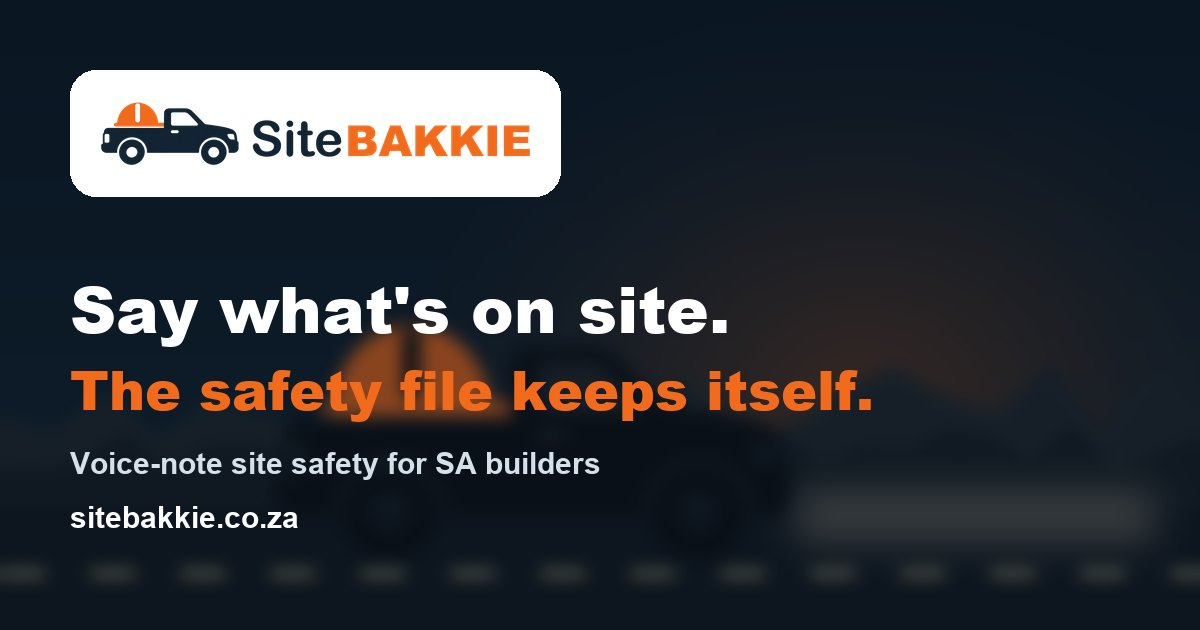
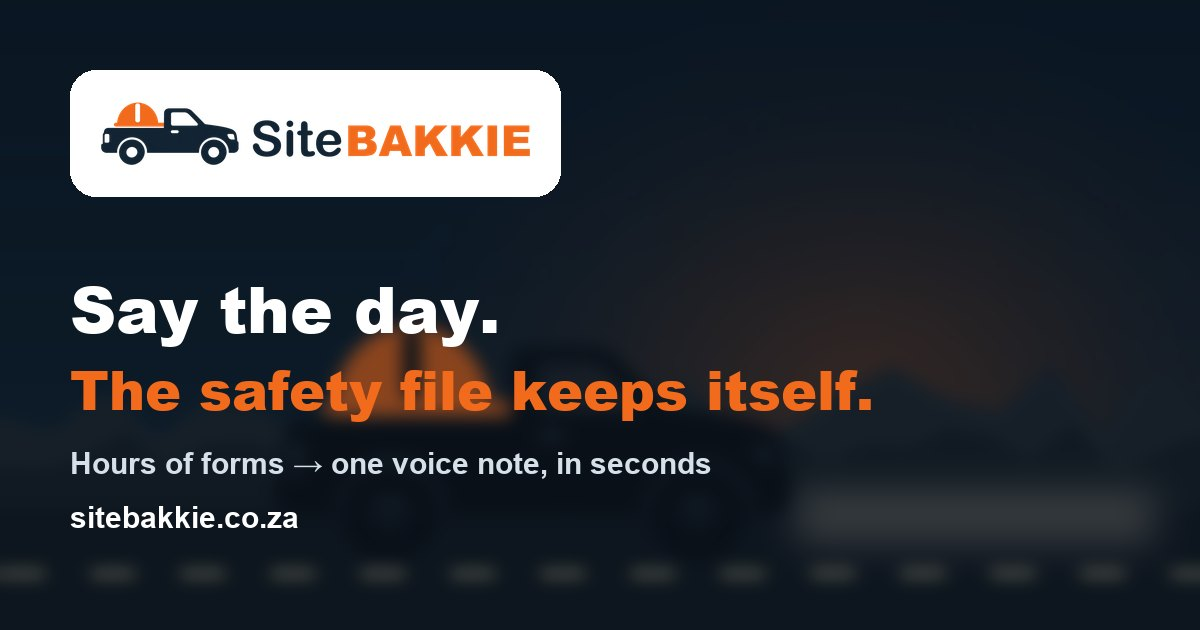
Landing: "Say the day." hero, hours-to-seconds highlight, no lone words in headings

Changed region(s): [[0.185, 0.4524, 0.6167, 0.573], [0.0617, 0.6937, 0.6167, 0.754]]

diff --git a/web/index.html b/web/index.html
@@ -7,7 +7,7 @@
 <meta name="description" content="SiteBakkie turns a voice note into the daily task sheet, toolbox talk, inspection or incident report, signed on the phone. A green-or-red site board shows what is missing. For South African builders and site managers.">
 <meta name="theme-color" content="#ffffff">
 <meta property="og:title" content="SiteBakkie · Site safety from the bakkie">
-<meta property="og:description" content="Say what's on site. The safety file keeps itself.">
+<meta property="og:description" content="Say the day. The safety file keeps itself.">
 <meta property="og:image" content="https://www.sitebakkie.co.za/img/og.jpg">
 <meta property="og:image:width" content="1200"><meta property="og:image:height" content="630">
 <meta property="og:url" content="https://www.sitebakkie.co.za/"><meta property="og:type" content="website">
@@ -41,7 +41,7 @@
     <div class="wrap herogrid">
       <div>
         <span class="pill">For builders, civil contractors &amp; site managers in South Africa</span>
-        <h1>Say what's on site.<br><span class="accent">The safety file keeps itself.</span></h1>
+        <h1>Say the day.<br><span class="accent">The safety file keeps itself.</span></h1>
         <p class="lead">SiteBakkie turns a quick voice note into the <b>daily task sheet, toolbox talk, inspection or incident report</b>, signed by the workers on the phone. The site board shows every requirement in green or red, so you see what is missing before the inspector or the client does.</p>
         <div class="ctas">
           <a href="/app.html#signup" class="btn btn-accent btn-lg">Join the pilot</a>
@@ -75,7 +75,8 @@
   <section id="why">
     <div class="wrap">
       <h2>Paperwork shouldn't run the site</h2>
-      <p class="sub">The Construction Regulations ask for a lot of paper: task sheets, toolbox talks, inspections, registers and appointments, all kept on site. Most sites fall behind, not because they don't care, but because the forms take hours. SiteBakkie does the writing for you.</p>
+      <p class="sub">The Construction Regulations ask for a lot of paper: task sheets, toolbox talks, inspections, registers and appointments, all kept on site. Most sites fall behind, not because they don't care, but because the forms take hours.</p>
+      <p class="punch"><span class="was">Hours of forms</span><span class="arrow" aria-hidden="true">→</span><span class="now">one voice note, done in seconds</span></p>
       <div class="grid why">
         <div class="feat"><div class="ico">🛑</div><h3>Keep the site working</h3><p>An incomplete safety file can stop work or fail a client audit. Keep every record current, on the phone, on site.</p></div>
         <div class="feat"><div class="ico">⏱</div><h3>Hours back every week</h3><p>Talk for 30 seconds instead of filling in forms after hours. The app writes it up; you check and sign.</p></div>

diff --git a/web/landing.css b/web/landing.css
@@ -224,3 +224,15 @@ body {
   box-shadow: 0 10px 30px rgba(18,36,51,.07); }
 .example-vs { color: var(--muted); }
 .example-vs b { color: #a3221a; text-decoration: line-through; }
+
+/* no single word left alone on a line */
+h1, h2, h3 { text-wrap: balance; }
+.lead, .sub, .feat p, .step p { text-wrap: pretty; }
+
+/* hours -> seconds */
+.punch { display: flex; flex-wrap: wrap; align-items: center; gap: 10px 14px; margin: -8px 0 32px;
+  font-size: clamp(20px, 2.6vw, 26px); font-weight: 800; letter-spacing: -.4px; }
+.punch .was { color: var(--muted); text-decoration: line-through; text-decoration-thickness: 2px; font-weight: 700; }
+.punch .arrow { color: var(--accent); }
+.punch .now { color: #fff; background: var(--accent-dk); padding: 6px 14px; border-radius: 12px;
+  box-shadow: 0 8px 22px rgba(242,107,29,.28); }
